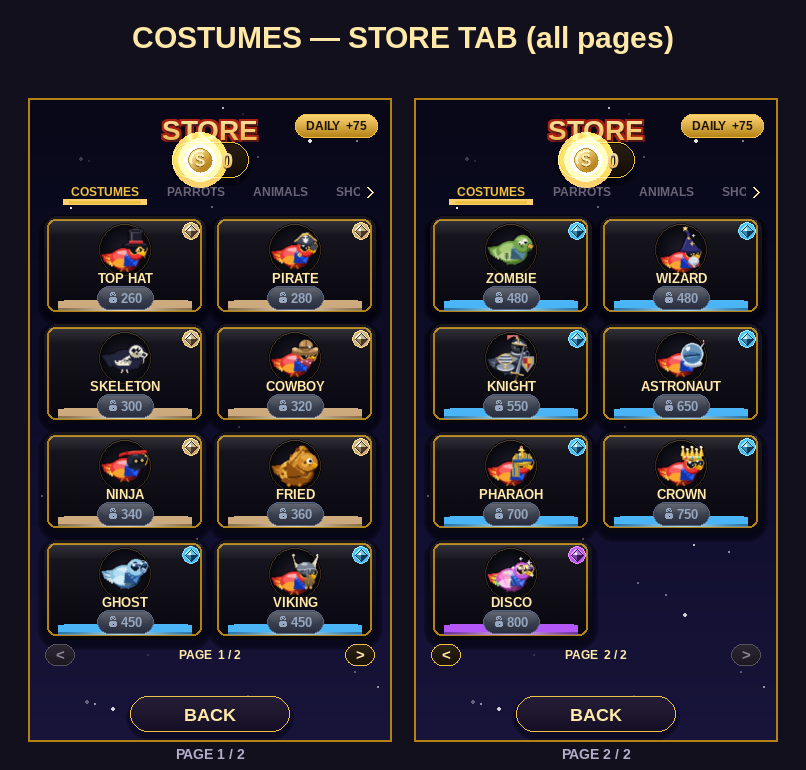
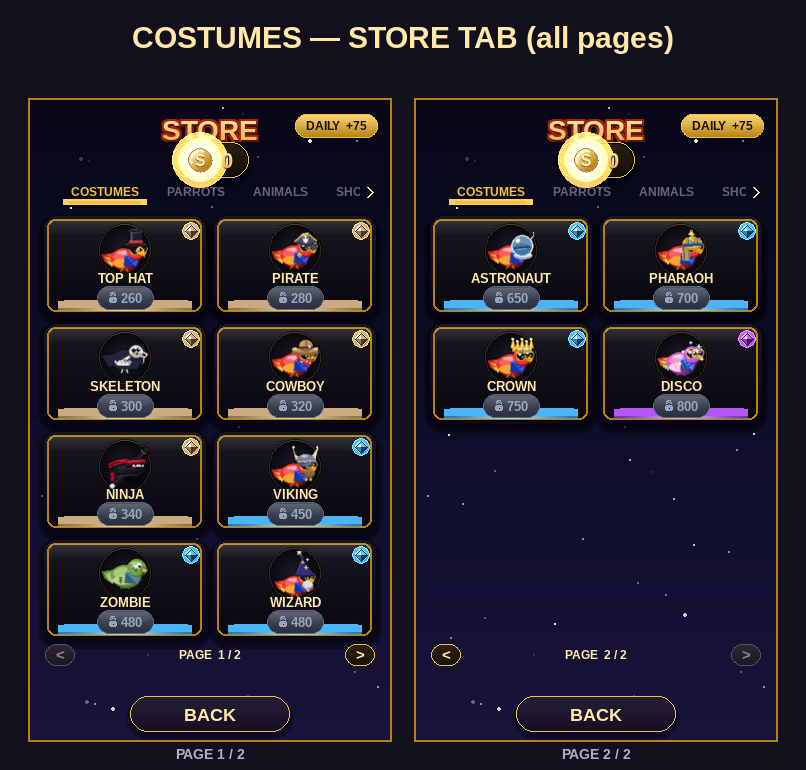
Ship SHADOWSTRIKE as the NINJA costume; refresh COSTUME figures
Replace the weak ninja (cowl + headband + eye-slit) with a black-shadow
shinobi: whole macaw re-plumaged near-black via the palette system, with a
steel-tipped back ninjato breaking the silhouette, crimson hachimaki + tails,
obi, and a metal eye-slit. Item id/name (skin_ninja / NINJA) unchanged.

Claude-Session: https://claude.ai/code/session_01TcD2m4ebQpiVFtZBbQdouL

diff --git a/game/store_skins.py b/game/store_skins.py
@@ -168,51 +168,196 @@ get_pirate_parrot = _make_skin(_paint_pirate)
 
 
 # ─────────────────────────────────────────────────────────────────────────────
-# 2 · NINJA — the CRIMSON HEADBAND is the hero: a solid bright band wrapping
-#     the full crown, sitting ABOVE a slim dark cowl so it pops. One thick
-#     tail only; eye-glints warmed to amber so they don't fight the scarlet.
-#
-# R1 fail: only the blue eye-slit read, like a random blue blob.
+# 2 · NINJA — a black-shadow shinobi. The whole macaw is re-plumaged near-black
+#     through the palette system (like the crimson/disco skins) so the costume
+#     accents read as crimson lines ON black instead of red-on-red, and the
+#     silhouette reads as one dark moving shadow. At 40px the read is, in order
+#     of value: a near-black bird, a bright metal eye-slit looking forward, a
+#     steel-tipped ninjato slung corner-to-corner (BOTH tips glinting past the
+#     silhouette so it breaks the egg shape no other costume has), then the
+#     crimson headband + trailing tails and the obi as the only colour. Every
+#     object is mass + ONE accent per object so the stack survives downscale.
 # ─────────────────────────────────────────────────────────────────────────────
-_NIN_CLOTH   = (40, 44, 58)
-_NIN_CLOTH_D = (24, 27, 38)
-_NIN_CLOTH_H = (78, 84, 104)
-_NIN_BAND    = (224, 48, 46)
-_NIN_BAND_D  = (150, 26, 30)
-_NIN_BAND_H  = (255, 120, 96)
-_NIN_EYE     = (255, 232, 180)     # warm amber, not cold blue
-_NIN_EYE_D   = (210, 150, 70)
+_NIN_BLACK     = (17, 19, 26)      # shadow body
+_NIN_CLOTH_H   = (31, 36, 48)      # cloth highlight — separates stacked black
+_NIN_SHADOW    = (42, 47, 60)      # wrap shadow / soft edge
+_NIN_CRIMSON   = (200, 16, 46)     # crimson accent (one line per object)
+_NIN_CRIMSON_D = (138, 12, 34)
+_NIN_CRIMSON_H = (236, 70, 92)
+_NIN_METAL     = (232, 234, 240)   # eye-slit + steel glint
+_NIN_METAL_D   = (150, 156, 170)
+
+# Near-black re-plumage of the whole macaw. Every slot is shadow-black with a
+# slightly lifted cloth-highlight on chest/crown so the dark mass doesn't read
+# as a flat void on night sky; tail/wing line work uses the deepest tone. Beak
+# and foot are blacked so nothing warm survives; lenses are dropped by the base
+# call so the eye-slit owns the face.
+P_NINJA = _pal(
+    tail=[(13, 15, 21), (15, 17, 23), (19, 21, 28), (24, 27, 35)],
+    tail_line=(8, 9, 13),
+    body_shadow=(11, 12, 17),
+    body_main=_NIN_BLACK,
+    body_chest=(24, 27, 35),
+    body_belly=(19, 21, 28),
+    sheen=(120, 130, 150, 40),
+    wing_main=(14, 16, 22),
+    wing_dark=(8, 9, 13),
+    wing_tip=(28, 31, 40),
+    wing_secondary=None,
+    wing_highlight=_NIN_CLOTH_H,
+    head_shadow=(11, 12, 17),
+    head_main=_NIN_BLACK,
+    head_cheek=(20, 22, 30),
+    head_crown=(24, 27, 35),
+    lens_frame=(20, 22, 30),
+    lens_body=(8, 9, 13),
+    lens_tint=None,
+    lens_glint=None,
+    beak_main=(20, 22, 30),
+    beak_dark=(8, 9, 13),
+    beak_gloss=(48, 52, 64),
+    foot=(18, 20, 26),
+)
 
 
-def _paint_ninja(surf, _a):
-    # Slim dark cowl hugging the head (kept below the band so the band reads).
-    pygame.draw.ellipse(surf, _NIN_CLOTH_D, (HX - 12, CROWN_Y - 1, 25, 24))
-    pygame.draw.ellipse(surf, _NIN_CLOTH, (HX - 11, CROWN_Y, 23, 22))
-    pygame.draw.ellipse(surf, _NIN_CLOTH_H, (HX - 5, CROWN_Y + 1, 8, 3))
-    # Wrap fold across the lower face.
-    pygame.draw.polygon(surf, _NIN_CLOTH_D,
-                        [(HX - 10, HY + 4), (HX + 12, HY + 2),
-                         (HX + 11, HY + 9), (HX - 9, HY + 10)])
-
-    # Eye-slit with two warm amber glints (no blue).
-    pygame.draw.rect(surf, (12, 13, 18), (HX - 5, HY - 2, 18, 6), border_radius=3)
-    pygame.draw.circle(surf, _NIN_EYE, (HX, HY + 1), 2)
-    pygame.draw.circle(surf, _NIN_EYE, (HX + 8, HY), 2)
-    pygame.draw.circle(surf, _NIN_EYE_D, (HX, HY + 1), 1)
-    pygame.draw.circle(surf, _NIN_EYE_D, (HX + 8, HY), 1)
-
-    # HERO: solid crimson headband ABOVE the cowl, breaking the crown outline.
-    by = CROWN_Y - 1
-    pygame.draw.line(surf, _NIN_BAND_D, (HX - 13, by + 1), (HX + 13, by - 1), 5)
-    pygame.draw.line(surf, _NIN_BAND, (HX - 13, by), (HX + 13, by - 2), 4)
-    pygame.draw.line(surf, _NIN_BAND_H, (HX - 11, by - 1), (HX + 6, by - 2), 1)
-    # One thick streaming tail flicking back off the far side.
-    pygame.draw.line(surf, _NIN_BAND_D, (HX - 12, by), (HX - 23, by + 4), 4)
-    pygame.draw.line(surf, _NIN_BAND, (HX - 12, by), (HX - 22, by + 3), 3)
-    pygame.draw.circle(surf, _NIN_BAND_D, (HX - 12, by), 2)   # knot
+def _ninja_base(angle_deg):
+    # Black bird with no aviators — the face wrap + eye-slit own the head.
+    return _build_parrot_with_palette(angle_deg, P_NINJA, draw_lenses=False)
 
 
-get_ninja_parrot = _make_skin(_paint_ninja)
+def _paint_ninja(surf, wing_angle_deg):
+    # Headband tails flick with the wing beat so the shadow feels alive; the
+    # base wing angles run negative-on-downbeat, so a small share reads as the
+    # ribbons trailing the dive.
+    flick = int(round(wing_angle_deg * 0.12))
+
+    # Ninjato slung corner-to-corner (drawn FIRST, behind the body/head so only
+    # the ends poke out — the hero silhouette-breaker). On a black body the HARD
+    # STEEL at BOTH tips is the single highest-value note at 40px, so each end
+    # overshoots the silhouette and gets a metal glint.
+    lo = (HX - 31, HY + 28)        # scabbard butt, out past the tail
+    hi = (HX + 19, CROWN_Y - 18)   # handle tip, up past the crown
+    pygame.draw.line(surf, _NIN_SHADOW, lo, hi, 7)
+    pygame.draw.line(surf, _NIN_BLACK, lo, hi, 5)
+    pygame.draw.line(surf, _NIN_CLOTH_H,
+                     (lo[0] + 2, lo[1] - 2), (hi[0] - 2, hi[1] + 2), 1)
+    # The crimson sageo cord runs the whole length between two dark edges so it
+    # reads as a line, not a wash.
+    pygame.draw.line(surf, _NIN_CRIMSON,
+                     (lo[0] + 1, lo[1] - 3), (hi[0] - 1, hi[1] + 3), 1)
+
+    dx, dy = hi[0] - lo[0], hi[1] - lo[1]
+    blen = math.hypot(dx, dy)
+    ux, uy = dx / blen, dy / blen
+    px, py = -uy, ux                 # perpendicular, for the square guard
+
+    # Square guard (tsuba) where the handle meets the blade, near the crown.
+    gx = hi[0] - ux * 13
+    gy = hi[1] - uy * 13
+    guard = [
+        (gx + px * 5, gy + py * 5), (gx - px * 5, gy - py * 5),
+        (gx - px * 5 + ux * 3, gy - py * 5 + uy * 3),
+        (gx + px * 5 + ux * 3, gy + py * 5 + uy * 3),
+    ]
+    _poly(surf, _NIN_BLACK, guard)
+    pygame.draw.line(surf, _NIN_METAL_D, (gx + px * 4, gy + py * 4),
+                     (gx - px * 4, gy - py * 4), 1)
+
+    # Wrapped handle (tsuka) above the guard, poking past the crown — cord-wrap
+    # ticks, then a HARD steel pommel cap glinting at the tip so the top end
+    # clearly breaks the crown outline.
+    for t in (4, 9):
+        hxp = hi[0] - ux * t
+        hyp = hi[1] - uy * t
+        pygame.draw.line(surf, _NIN_CLOTH_H, (hxp + px * 2, hyp + py * 2),
+                         (hxp - px * 2, hyp - py * 2), 1)
+    pygame.draw.circle(surf, _NIN_METAL_D, (int(hi[0]), int(hi[1])), 3)
+    pygame.draw.circle(surf, _NIN_METAL, (int(hi[0]), int(hi[1])), 2)
+    pygame.draw.circle(surf, (255, 255, 255), (int(hi[0] - 1), int(hi[1] - 1)), 1)
+
+    # Steel scabbard-butt cap (kojiri) glinting at the LOW tip past the tail —
+    # the second hard metal note, sized to throw an EQUAL-weight steel break at
+    # 40px on night, where the low tip is otherwise the softer of the two reads.
+    pygame.draw.circle(surf, _NIN_METAL_D, (int(lo[0]), int(lo[1])), 4)
+    pygame.draw.circle(surf, _NIN_METAL, (int(lo[0]), int(lo[1])), 3)
+    pygame.draw.circle(surf, (255, 255, 255), (int(lo[0] + 1), int(lo[1] - 1)), 1)
+    pygame.draw.circle(surf, (255, 255, 255), (int(lo[0]), int(lo[1] - 1)), 1)
+
+    # Headband tails streaming off the BACK of the skull (drawn before the head
+    # wrap so the wrap roots them). Two crimson ribbons aimed to trail OFF the
+    # silhouette into open sky (up-left, away from the body) so they read as
+    # motion, not body lines.
+    bx, by = HX - 11, CROWN_Y + 2   # back-of-skull anchor
+    for k, spread in ((0, 0), (1, 4)):
+        t0 = (bx, by + k * 2)
+        t1 = (bx - 13, by - 1 + flick + spread)
+        t2 = (bx - 25, by + 2 + flick * 2 + spread)
+        pygame.draw.lines(surf, _NIN_CRIMSON_D, False, [t0, t1, t2], 3)
+        pygame.draw.lines(surf, _NIN_CRIMSON, False, [t0, t1, t2], 2)
+    pygame.draw.line(surf, _NIN_CRIMSON_H, (bx, by), (bx - 11, by - 1 + flick), 1)
+
+    # Full face wrap (fukumen): black cloth over the whole head from the
+    # beak-base up past the crown, leaving a horizontal eye-slit.
+    pygame.draw.ellipse(surf, _NIN_SHADOW, (HX - 13, CROWN_Y - 1, 26, 25))
+    pygame.draw.ellipse(surf, _NIN_BLACK, (HX - 12, CROWN_Y, 24, 23))
+    # Crown highlight so the black skull-cap doesn't vanish on night sky.
+    pygame.draw.ellipse(surf, _NIN_CLOTH_H, (HX - 6, CROWN_Y + 1, 10, 4))
+    # Lower-face wrap fold across the beak base, with a single cloth crease.
+    fold = [(HX - 11, HY + 3), (HX + 12, HY + 1),
+            (HX + 12, HY + 9), (HX - 10, HY + 11)]
+    _poly(surf, _NIN_BLACK, fold)
+    pygame.draw.line(surf, _NIN_CLOTH_H, (HX - 9, HY + 6), (HX + 10, HY + 4), 1)
+
+    # Eye-slit: a bright metal band so Pip still reads as looking forward —
+    # framed dark so it reads as a slit, not a bar.
+    pygame.draw.rect(surf, (8, 9, 13), (HX - 6, HY - 3, 19, 7), border_radius=3)
+    pygame.draw.rect(surf, _NIN_METAL, (HX - 4, HY - 1, 15, 3), border_radius=1)
+    # Two darker pupils sitting in the slit so it reads as eyes, not a bar.
+    pygame.draw.circle(surf, (20, 22, 30), (HX, HY), 1)
+    pygame.draw.circle(surf, (20, 22, 30), (HX + 8, HY), 1)
+
+    # Hachimaki band over the wrap (crimson) — the brow accent that ties the
+    # trailing tails to the head. Dark cloth on both sides keeps it a line.
+    by2 = CROWN_Y + 5
+    pygame.draw.line(surf, _NIN_CRIMSON_D, (HX - 12, by2 + 1), (HX + 12, by2 - 1), 4)
+    pygame.draw.line(surf, _NIN_CRIMSON, (HX - 12, by2), (HX + 12, by2 - 2), 3)
+    pygame.draw.line(surf, _NIN_CRIMSON_H, (HX - 10, by2 - 1), (HX + 6, by2 - 2), 1)
+    pygame.draw.circle(surf, _NIN_CRIMSON_D, (bx, by), 2)   # side knot
+
+    # Obi sash wrapped around the belly, knotted at the side with a hanging end.
+    bcx, bcy = 31, 53
+    sash = [(bcx - 17, bcy - 3), (bcx + 14, bcy - 6),
+            (bcx + 15, bcy + 1), (bcx - 16, bcy + 4)]
+    _poly(surf, _NIN_SHADOW, sash)
+    sash2 = [(bcx - 17, bcy - 2), (bcx + 14, bcy - 5),
+             (bcx + 14, bcy - 1), (bcx - 16, bcy + 2)]
+    _poly(surf, _NIN_BLACK, sash2)
+    pygame.draw.line(surf, _NIN_CLOTH_H, (bcx - 15, bcy - 2), (bcx + 12, bcy - 5), 1)
+    # Side knot + short hanging end (crimson accent on the body object).
+    kx, ky = bcx - 15, bcy
+    pygame.draw.circle(surf, _NIN_CRIMSON_D, (kx, ky), 3)
+    pygame.draw.circle(surf, _NIN_CRIMSON, (kx, ky), 2)
+    _poly(surf, _NIN_CRIMSON_D, [(kx - 1, ky + 2), (kx + 3, ky + 2),
+                                 (kx + 1, ky + 9), (kx - 3, ky + 8)])
+    _poly(surf, _NIN_CRIMSON, [(kx, ky + 3), (kx + 2, ky + 3),
+                               (kx + 1, ky + 8), (kx - 1, ky + 8)])
+
+    # Lower wing/tail back-edge rim: a single 1px cloth-highlight stroke tracing
+    # the underside silhouette that faces open sky, so the dark mass keeps a
+    # crisp lower edge against dark night backgrounds. Pure edge rim — held one
+    # tone above shadow so the bright-sky day read is untouched.
+    pygame.draw.lines(surf, _NIN_CLOTH_H, False,
+                      [(15, 40), (22, 44), (28, 47), (38, 47), (45, 43)], 1)
+
+    # Forearm wrap: ONE thicker black band near the wing root with a single
+    # crimson tie so the wing reads as a bound shinobi arm, not bare plumage.
+    wrx, wry = 40, 47
+    pygame.draw.line(surf, _NIN_SHADOW, (wrx - 6, wry + 1), (wrx + 7, wry - 2), 5)
+    pygame.draw.line(surf, _NIN_BLACK, (wrx - 6, wry + 1), (wrx + 7, wry - 2), 3)
+    pygame.draw.line(surf, _NIN_CRIMSON, (wrx - 5, wry - 1), (wrx + 6, wry - 3), 1)
+
+
+get_ninja_parrot = _make_skin(_paint_ninja, base_fn=_ninja_base)
 
 
 # ─────────────────────────────────────────────────────────────────────────────
